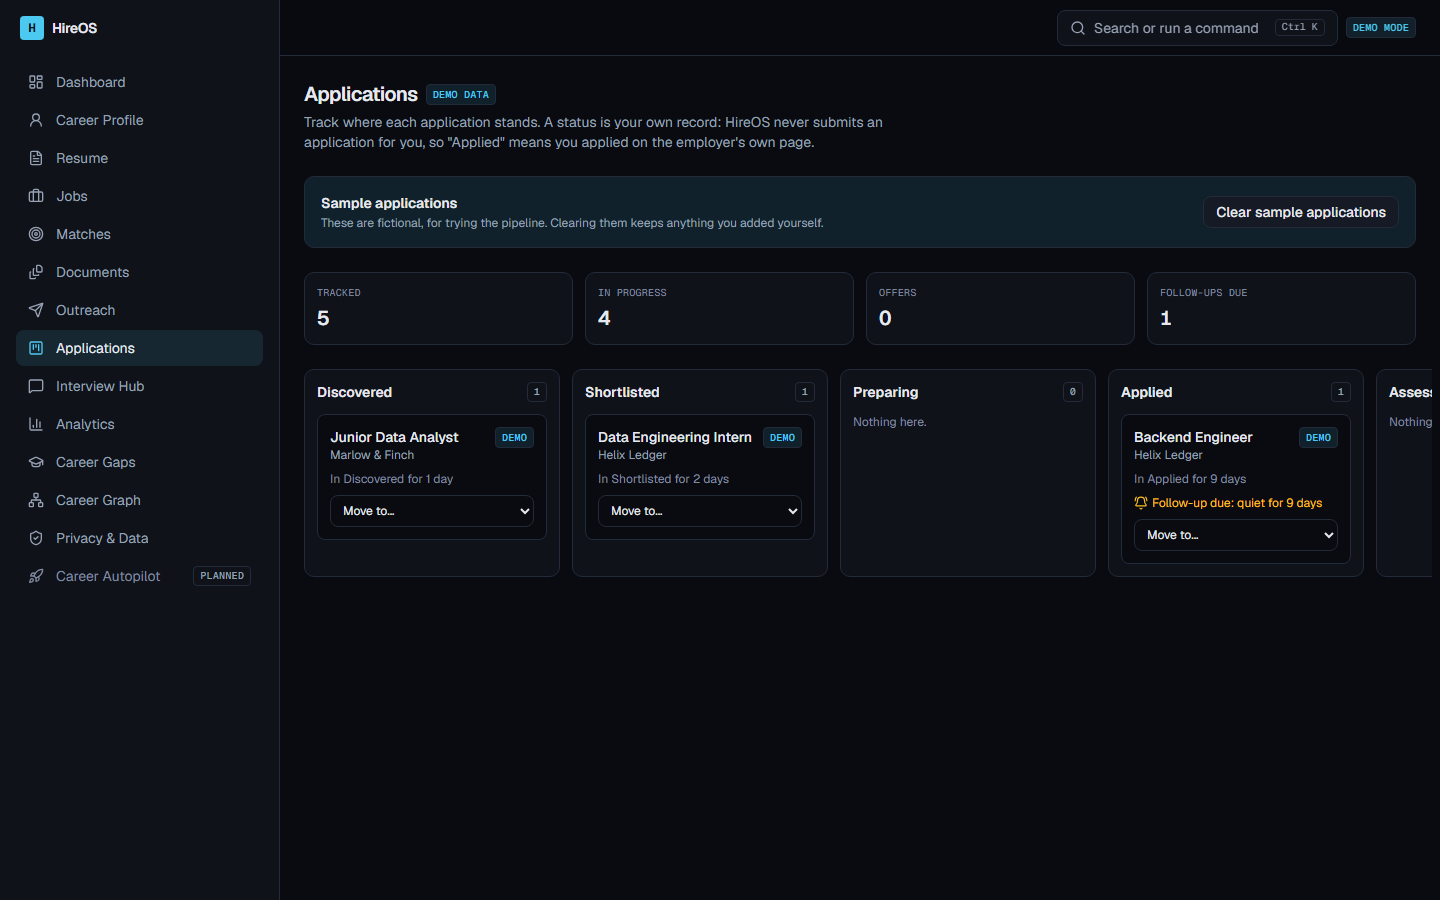
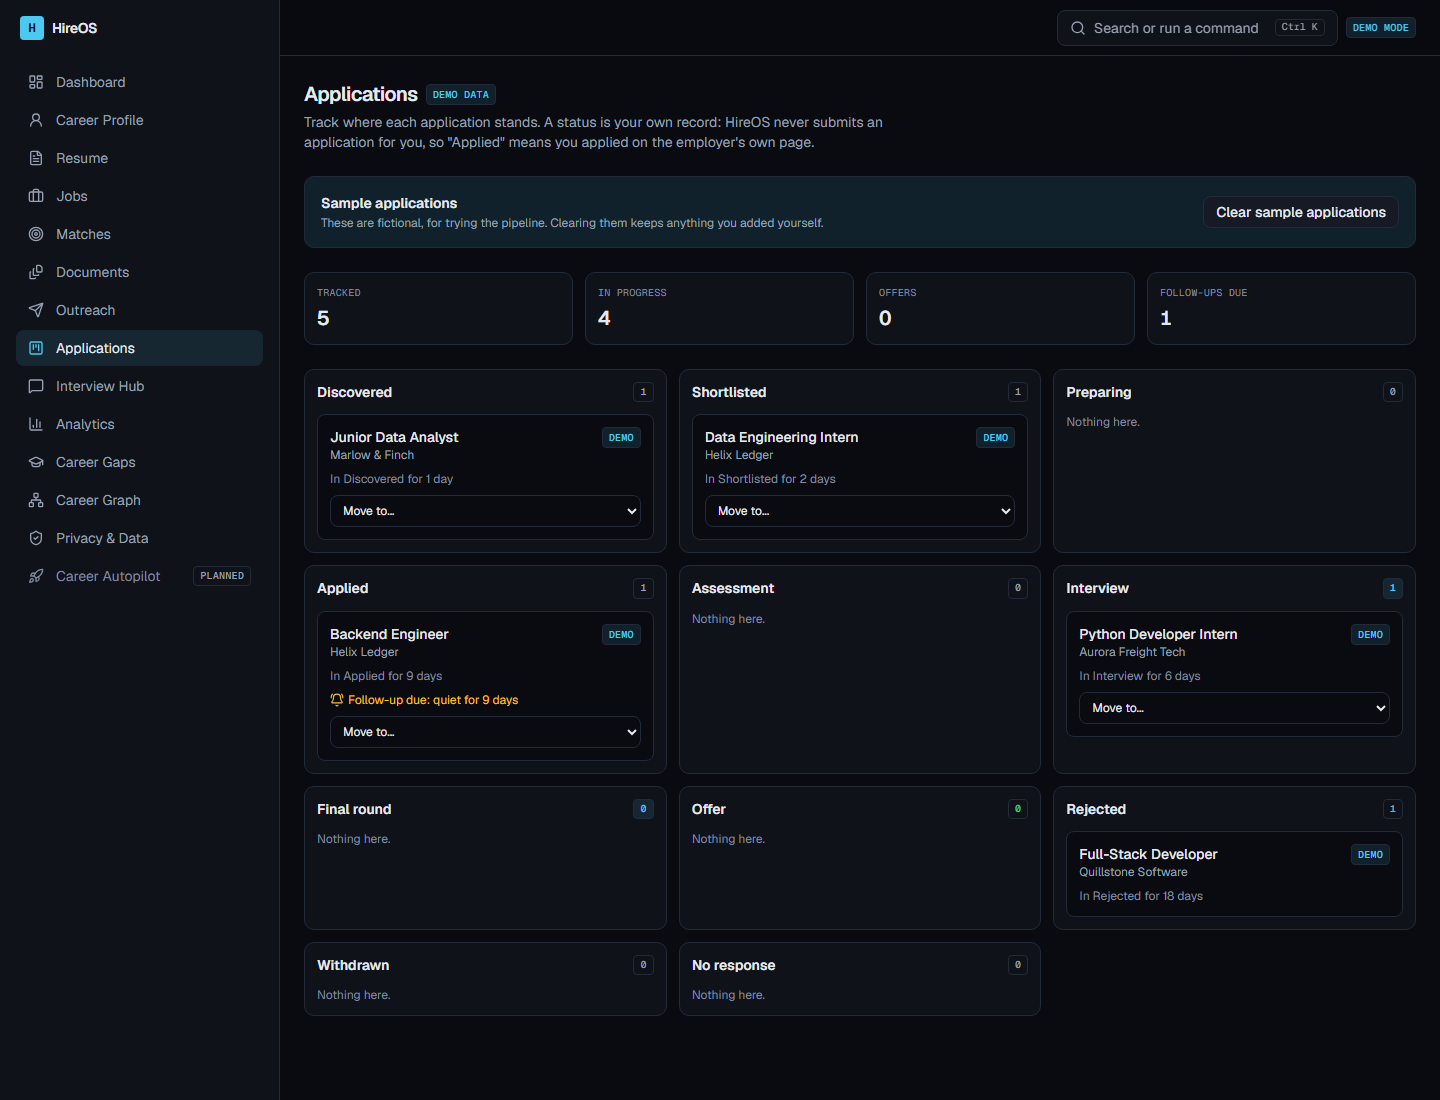
Show every pipeline stage at once; lead the dashboard with content

diff --git a/app/(app)/dashboard/page.tsx b/app/(app)/dashboard/page.tsx
@@ -138,47 +138,6 @@ export default async function DashboardPage() {
       </section>
 
       <section
-        aria-labelledby="system-status"
-        className="border-border bg-surface rounded-lg border p-4"
-      >
-        <h2 id="system-status" className="text-sm font-medium">
-          System status
-        </h2>
-        <ul className="divide-border mt-2 divide-y">
-          <StatusRow
-            label="Data backend (Supabase)"
-            ok={caps.supabase}
-            okText="Configured"
-            offText="Not configured"
-          />
-          <StatusRow
-            label="AI backend (LLM provider)"
-            ok={caps.llm}
-            okText="Configured"
-            offText="Configure API key"
-          />
-          <StatusRow
-            label="Background jobs (Inngest)"
-            ok={caps.backgroundJobs}
-            okText="Configured"
-            offText="Not configured"
-          />
-          <StatusRow
-            label="Email drafts delivery (Resend)"
-            ok={caps.email}
-            okText="Configured"
-            offText="Not configured"
-          />
-        </ul>
-        {caps.demoMode && (
-          <p className="text-muted mt-3 text-xs">
-            Running without a data backend, so what you see is sample data in a temporary sandbox.
-            Add Supabase keys to keep your own data; AI features stay off until an API key is set.
-          </p>
-        )}
-      </section>
-
-      <section
         aria-labelledby="top-opportunities"
         className="border-border bg-surface rounded-lg border p-4"
       >
@@ -263,6 +222,47 @@ export default async function DashboardPage() {
           )}
         </div>
       </div>
+
+      <section
+        aria-labelledby="system-status"
+        className="border-border bg-surface rounded-lg border p-4"
+      >
+        <h2 id="system-status" className="text-sm font-medium">
+          System status
+        </h2>
+        <ul className="divide-border mt-2 divide-y">
+          <StatusRow
+            label="Data backend (Supabase)"
+            ok={caps.supabase}
+            okText="Configured"
+            offText="Not configured"
+          />
+          <StatusRow
+            label="AI backend (LLM provider)"
+            ok={caps.llm}
+            okText="Configured"
+            offText="Configure API key"
+          />
+          <StatusRow
+            label="Background jobs (Inngest)"
+            ok={caps.backgroundJobs}
+            okText="Configured"
+            offText="Not configured"
+          />
+          <StatusRow
+            label="Email drafts delivery (Resend)"
+            ok={caps.email}
+            okText="Configured"
+            offText="Not configured"
+          />
+        </ul>
+        {caps.demoMode && (
+          <p className="text-muted mt-3 text-xs">
+            Running without a data backend, so what you see is sample data in a temporary sandbox.
+            Add Supabase keys to keep your own data; AI features stay off until an API key is set.
+          </p>
+        )}
+      </section>
     </div>
   );
 }

diff --git a/features/applications/components/board.tsx b/features/applications/components/board.tsx
@@ -59,7 +59,11 @@ function Card({
   );
 }
 
-/** One column per status, side by side. On a narrow screen the board scrolls sideways within itself. */
+/**
+ * One column per status, in pipeline order, wrapping onto rows. Every stage is visible without
+ * scrolling sideways (a long row hid the later stages, interview and offer, off-screen), and on
+ * a phone the columns stack.
+ */
 export function Board({
   applications,
   followUps,
@@ -70,22 +74,17 @@ export function Board({
   now: Date;
 }) {
   return (
-    // `relative` makes this the containing block for the screen-reader-only labels inside, so
-    // they are clipped with the board instead of widening the whole page.
-    <div
-      className="relative -mx-4 overflow-x-auto px-4 pb-2"
-      role="region"
-      aria-label="Pipeline board"
-      tabIndex={0}
-    >
-      <div className="flex min-w-max gap-3">
+    // `relative` keeps the screen-reader-only labels inside the board, so they can never widen
+    // the page.
+    <div className="relative" role="region" aria-label="Pipeline board">
+      <div className="grid gap-3 sm:grid-cols-2 xl:grid-cols-3 2xl:grid-cols-4">
         {STATUSES.map((status) => {
           const items = applications.filter((a) => a.status === status);
           return (
             <section
               key={status}
               aria-labelledby={`col-${status}`}
-              className="border-border bg-surface flex w-64 shrink-0 flex-col gap-3 rounded-lg border p-3"
+              className="border-border bg-surface flex min-w-0 flex-col gap-3 rounded-lg border p-3"
               data-testid={`column-${status}`}
             >
               <h3
